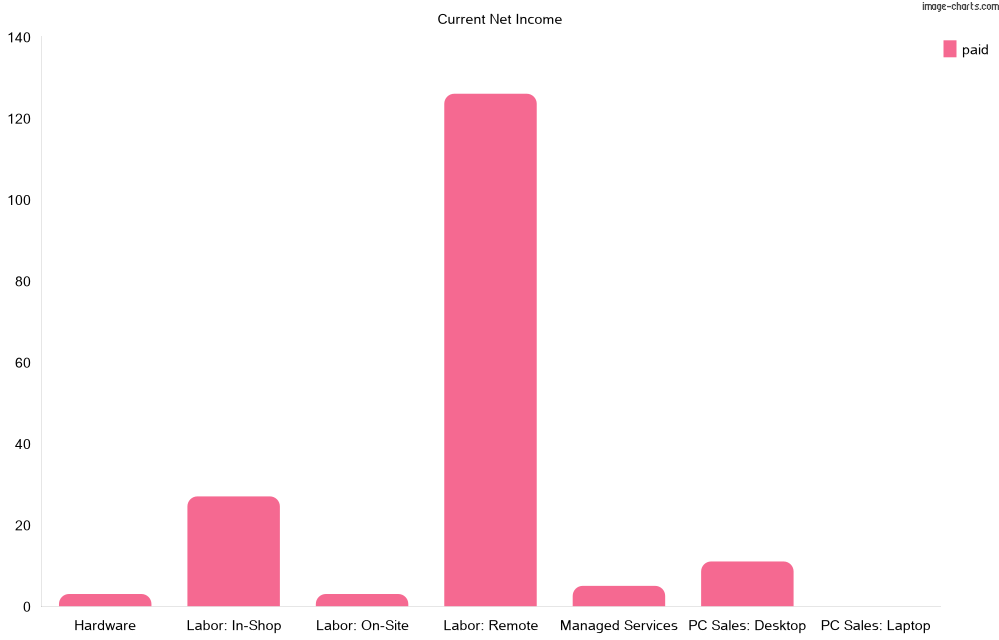
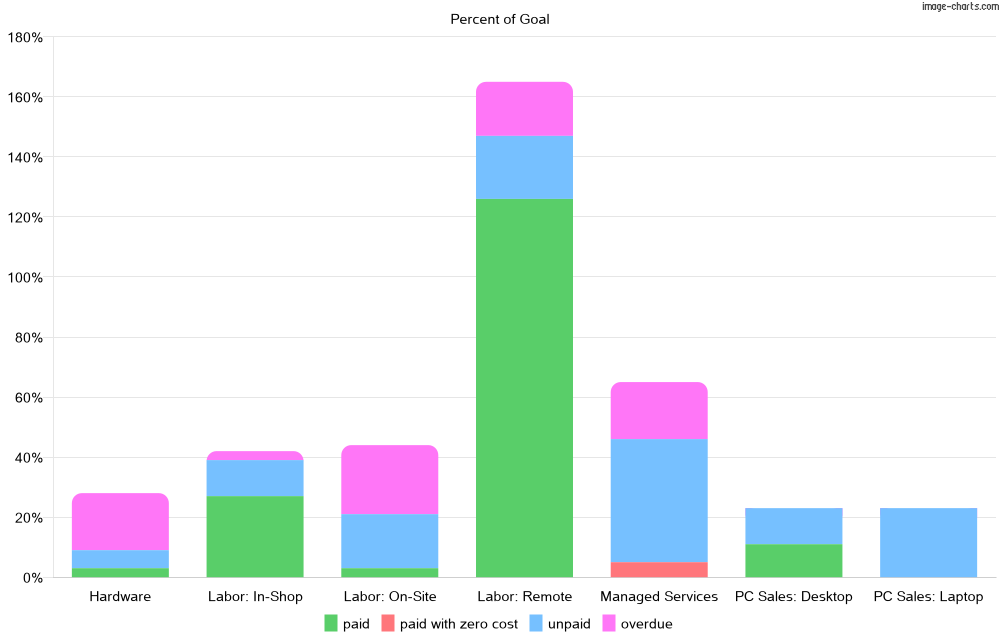
basic functionality done

diff --git a/templates/index.html b/templates/index.html
@@ -5,7 +5,7 @@
     <meta http-equiv="refresh" content="30">
     <title>RepairShopr Chart</title>
 </head>
-<body>
+<body style="background-color: #ffffff">
     <img src="{{ url_for('static', filename='images/chart.png') }}" /><br />
 </body>
 </html>

diff --git a/fetch.py b/fetch.py
@@ -5,9 +5,12 @@ import logging
 import logging.config
 import configparser
 import json
+import math
 from datetime import date, datetime
 from ratelimiter import RateLimiter
 from ImageCharts import ImageCharts
+from urllib.parse import urlencode, quote_plus
+
 
 ONE_MINUTE = 60
 
@@ -18,7 +21,7 @@ logger = logging.getLogger(__name__)
 
 # Create file handler/config for logging
 f_handler = logging.FileHandler('fetch.log')
-f_handler.setLevel(logging.INFO)
+f_handler.setLevel(logging.DEBUG)
 f_format = logging.Formatter('%(asctime)s - %(name)s - %(levelname)s - %(message)s')
 f_handler.setFormatter(f_format)
 logger.addHandler(f_handler)
@@ -35,14 +38,16 @@ for key, category in categories:
     logger.debug(f"Adding '{category}' to category_totals")
     category_totals[f"{category}"] = {
                                 "paid": 0,
+                                "paid_w_zero_cost": 0,
                                 "unpaid": 0,
                                 "overdue": 0,
-                                "percent_of_goal": 0
+                                "allow_zero_hw": config[category]['allow_non-zero_costs'] in ('True'),
+                                "percent_paid": 0,
+                                "percent_paidwzero": 0,
+                                "percent_unpaid": 0,
+                                "percent_overdue": 0
                                 } 
 
-chart_config = config['chart_settings']
-
-chart_type = chart_config['chart_type']
 
 rs_api_url = config['repairshopr']['api_url']
 rs_api_key = config['repairshopr']['api_token']
@@ -108,7 +113,7 @@ def get_inv_details(id=0):
 
 
 def add_to_categories(invoice):
-    logger.info(f"Invoice # - {invoice['number']}")
+    logger.debug(f"Invoice # - {invoice['number']} ({invoice['id']})")
 
     is_paid = invoice['is_paid']
     # logger.debug(f"Is paid? {is_paid} and type {type(is_paid)}")
@@ -119,10 +124,12 @@ def add_to_categories(invoice):
         # logger.debug(f"Is overdue? {overdue}")
 
     for line_item in invoice['line_items']:
+        line_item_special = False
         logger.debug(f"Bundle ID: {line_item['invoice_bundle_id']} with type: {type(line_item['invoice_bundle_id'])}")
         if line_item['invoice_bundle_id'] is not None:
             line_item_net = (float(line_item['price']) * float(line_item['quantity'])) - float(invoice['hardwarecost'])
             line_item_cat = 'PC Sales: Desktop'
+            line_item_special = True
         elif line_item['item'] == "Managed Services":
             line_item_net = (float(line_item['price']) * float(line_item['quantity'])) - (float(line_item['cost']) * float(line_item['quantity']))
             line_item_cat = 'Managed Services'
@@ -132,7 +139,11 @@ def add_to_categories(invoice):
 
         if line_item_cat in category_totals:
             if is_paid:
-                category_totals[line_item_cat]['paid'] += line_item_net
+                if not category_totals[line_item_cat]['allow_zero_hw'] and ((line_item_special and float(invoice['hardwarecost']) < 0.01) or (not line_item_special and float(line_item['cost']) < 0.01)):
+                    category_totals[line_item_cat]['paid_w_zero_cost'] += line_item_net
+                    logger.warning(f"Found non-zero cost when non-zero allowed? {category_totals[line_item_cat]['allow_zero_hw']}")
+                else:
+                    category_totals[line_item_cat]['paid'] += line_item_net
             elif overdue:
                 category_totals[line_item_cat]['overdue'] += line_item_net
             else:
@@ -141,45 +152,57 @@ def add_to_categories(invoice):
         else:
             logger.debug(f"Line item: '{line_item_cat}' is not being tracked. Skipping...")
 
+
+def rounduptobase(x, base=10):
+    return base * math.ceil(x/base)
+
+
 # current_invoice_list = get_inv_list() + get_inv_list(paid='false')
 
 # for inv in current_invoice_list:
 #     add_to_categories(get_inv_details(inv['id']))
 
-# print(category_totals)
-testing_category_totals = {'Hardware': {'paid': 177.96, 'unpaid': 307.01, 'overdue': 968.79, 'percent_of_goal': 0}, 'Labor: In-Shop': {'paid': 2239.9799999999996, 'unpaid': 960.0, 'overdue': 289.99, 'percent_of_goal': 0}, 'Labor: On-Site': {'paid': 210.0, 'unpaid': 1290.0, 'overdue': 1670.0, 'percent_of_goal': 0}, 'Labor: Remote': {'paid': 1260.0, 'unpaid': 210.0, 'overdue': 180.0, 'percent_of_goal': 0}, 'Managed Services': {'paid': 925.0, 'unpaid': 6639.0, 'overdue': 3099.0, 'percent_of_goal': 0}, 'PC Sales: Desktop': {'paid': 441.02, 'unpaid': 480.0, 'overdue': 0, 'percent_of_goal': 0}, 'PC Sales: Laptop': {'paid': 0, 'unpaid': 478.24, 'overdue': 0, 'percent_of_goal': 0}}
+# logger.debug(category_totals)
 
-cat_goals = []
+# Using this for testing code below without grabbing new data
+category_totals = {'Hardware': {'paid': 177.96, 'paid_w_zero_cost': 0, 'unpaid': 307.01, 'overdue': 968.79, 'allow_zero_hw': False, 'percent_paid': 0, 'percent_paidwzero': 0, 'percent_unpaid': 0, 'percent_overdue': 0}, 'Labor: In-Shop': {'paid': 2239.9799999999996, 'paid_w_zero_cost': 0, 'unpaid': 960.0, 'overdue': 289.99, 'allow_zero_hw': True, 'percent_paid': 0, 'percent_paidwzero': 0, 'percent_unpaid': 0, 'percent_overdue': 0}, 'Labor: On-Site': {'paid': 210.0, 'paid_w_zero_cost': 0, 'unpaid': 1290.0, 'overdue': 1670.0, 'allow_zero_hw': True, 'percent_paid': 0, 'percent_paidwzero': 0, 'percent_unpaid': 0, 'percent_overdue': 0}, 'Labor: Remote': {'paid': 1260.0, 'paid_w_zero_cost': 0, 'unpaid': 210.0, 'overdue': 180.0, 'allow_zero_hw': True, 'percent_paid': 0, 'percent_paidwzero': 0, 'percent_unpaid': 0, 'percent_overdue': 0}, 'Managed Services': {'paid': 0, 'paid_w_zero_cost': 925.0, 'unpaid': 6639.0, 'overdue': 3099.0, 'allow_zero_hw': False, 'percent_paid': 0, 'percent_paidwzero': 0, 'percent_unpaid': 0, 'percent_overdue': 0}, 'PC Sales: Desktop': {'paid': 441.02, 'paid_w_zero_cost': 0, 'unpaid': 480.0, 'overdue': 0, 'allow_zero_hw': False, 'percent_paid': 0, 'percent_paidwzero': 0, 'percent_unpaid': 0, 'percent_overdue': 0}, 'PC Sales: Laptop': {'paid': 0, 'paid_w_zero_cost': 0, 'unpaid': 478.24, 'overdue': 0, 'allow_zero_hw': False, 'percent_paid': 0, 'percent_paidwzero': 0, 'percent_unpaid': 0, 'percent_overdue': 0}}
 
-for category in testing_category_totals:
-    testing_category_totals[category]['percent_of_goal'] = str(int((float(testing_category_totals[category]['paid']) / float(config[category]['goal']))*100))
-    cat_goals.append(testing_category_totals[category]['percent_of_goal'])
-    
+chart_colors = f"{config['chart_settings']['paid_color']},{config['chart_settings']['paidzero_color']},{config['chart_settings']['unpaid_color']},{config['chart_settings']['overdue_color']}"
 
+cat_percent_lists = [[],[],[],[]]
+max_cat_percent = 0
+for category in category_totals:
+    temp_cat_percent = 0
+    cat_goal = float(config[category]['goal'])
+    category_totals[category]['percent_paid'] = str(int((float(category_totals[category]['paid']) / cat_goal)*100))
+    category_totals[category]['percent_paidwzero'] = str(int((float(category_totals[category]['paid_w_zero_cost']) / cat_goal)*100))
+    category_totals[category]['percent_unpaid'] = str(int((float(category_totals[category]['unpaid']) / cat_goal)*100))
+    category_totals[category]['percent_overdue'] = str(int((float(category_totals[category]['overdue']) / cat_goal)*100))
+    temp_cat_percent += int(category_totals[category]['percent_paid'])
+    cat_percent_lists[0].append(category_totals[category]['percent_paid'])
+    temp_cat_percent += int(category_totals[category]['percent_paidwzero'])
+    cat_percent_lists[1].append(category_totals[category]['percent_paidwzero'])
+    temp_cat_percent += int(category_totals[category]['percent_unpaid'])
+    cat_percent_lists[2].append(category_totals[category]['percent_unpaid'])
+    temp_cat_percent += int(category_totals[category]['percent_overdue'])
+    cat_percent_lists[3].append(category_totals[category]['percent_overdue'])
+    if temp_cat_percent > max_cat_percent:
+        max_cat_percent = temp_cat_percent
+        logger.debug(f"New max percent: {max_cat_percent}")
 
-# print(testing_category_totals)
+logger.debug(category_totals)
 
-chart_data = {
-    'type':"bar",
-    'data':{
-        'labels':categories,
-        'datasets':[
-            {
-                'label':'paid',
-                'data':cat_goals
-            }
-        ]
-        }
-    }
-print(categories)
+cat_data_csv = []
+for count in range(len(cat_percent_lists)):
+    cat_data_csv.append(",".join(cat_percent_lists[count]))
 
-cat_goals_csv = ",".join(cat_goals)
-categories_csv = "|".join(testing_category_totals.keys())
+categories_csv = "|".join(category_totals.keys())
 
-print(cat_goals_csv)
-print(categories_csv)
+logger.debug(f"Chart colors: {chart_colors}")
+logger.debug(f"Chart data: {cat_data_csv}")
+logger.debug(f"Chart labels: {categories_csv}")
 
-ImageCharts().cht('bvs').chs('999x640').chbr('10').chtt('Current Net Income').chds("0,150").chd(f't:{cat_goals_csv}').chdl('paid').chxt('x,y').chxl(f'0:|{categories_csv}').to_file('./static/images/chart.png')
+# Get chart and save it to a file
+ImageCharts().cht('bvs').chs('999x640').chbr('10').chtt('Percent of Goal').chg('0,25').chxr(f'1,0,{rounduptobase(max_cat_percent,20)},20').chf('bg,s,BFBFBF00').chco(chart_colors).chd(f't:{cat_data_csv[0]}|{cat_data_csv[1]}|{cat_data_csv[2]}|{cat_data_csv[3]}').chds(f'a').chdl('paid  |paid with zero cost  |unpaid  |overdue').chdlp('b').chxt('x,y').chxl(f'0:|{categories_csv}').chxs('1N*f0*%').to_file('./static/images/chart.png')
 
 logger.info(f"---- END OF SCRIPT ----")
-

diff --git a/dashboard.py b/dashboard.py
@@ -1,6 +1,6 @@
 import configparser
 import logging
-from flask import Flask, jsonify, render_template, request
+from flask import Flask, jsonify, render_template, request, make_response
 
 config = configparser.ConfigParser()
 config.read('env/config.ini')
@@ -9,7 +9,9 @@ app = Flask(__name__)
 
 @app.route("/")
 def home():
-    return render_template("index.html")
+    response = make_response(render_template("index.html"))
+    response.headers["Cache-Control"] = "no-store, must-revalidate" # HTTP 1.1.
+    return response
 
 if __name__ == '__main__':
-    app.run(debug=False)
+    app.run(debug=True)
